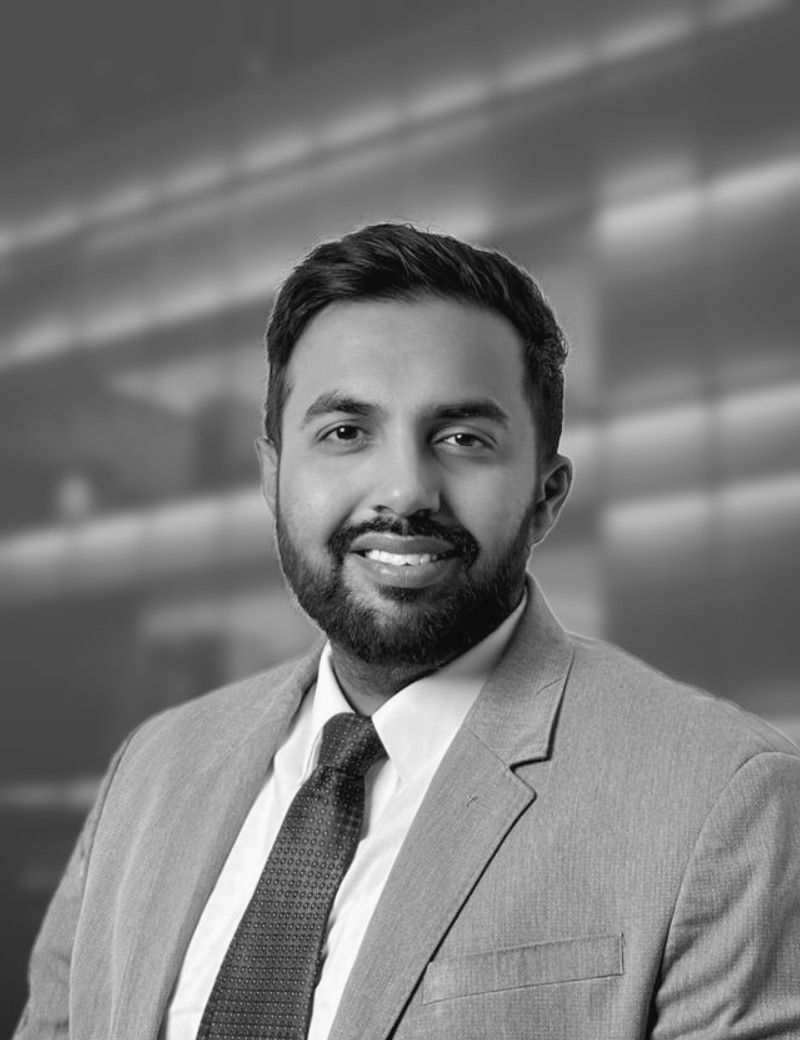
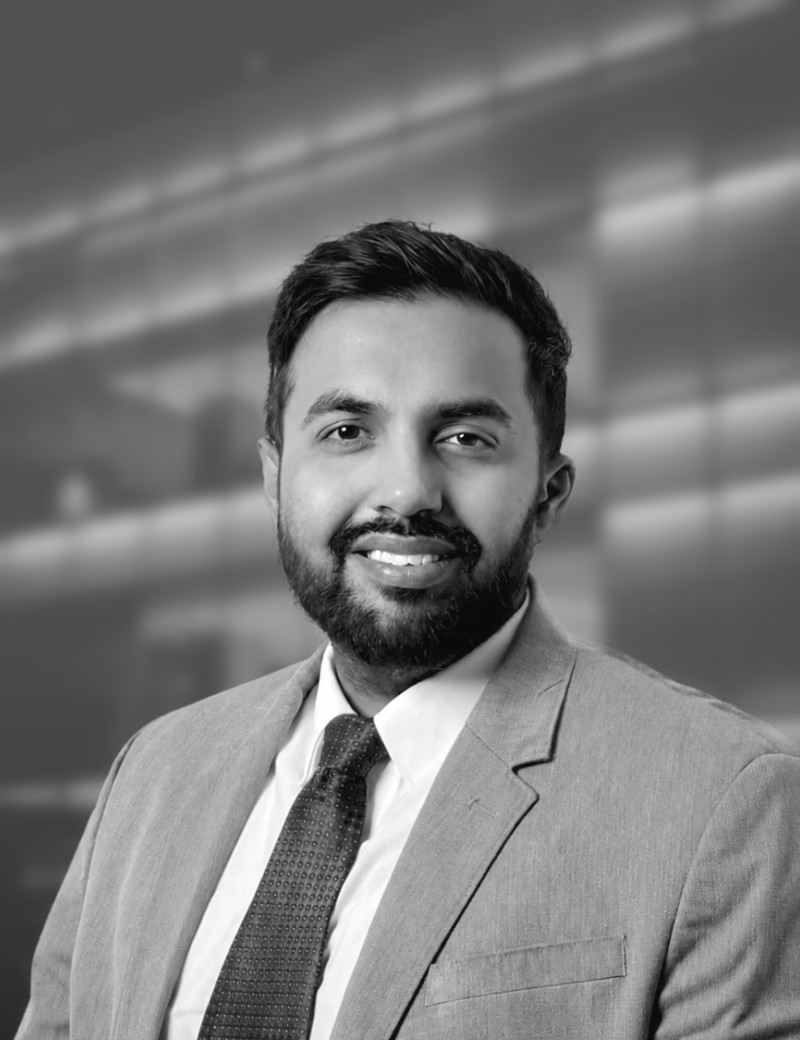
Ten new portraits, and Geeta Karnik by her right name
The client's reshoot arrives: everyone on the page but Asif, in one
studio session. Through the same pipeline as before — cut with person
segmentation, exposed toward the set's face tone, composited on the
shared backdrop — so the nine new frames and the one old one still read
as one wall.

Geetika Kamikar was never her name. She is Geeta Karnik, and her card
carries her photograph rather than the initials tile, which no card
needs any more.

Two smaller wins in the same batch. Gaurav's original is now 1500x2000
rather than 800x1040, which is the sharpest any founder card has been.
And Amit's frame is finally wide enough to crop to the set's head size:
his was one of the two stuck at 35% for want of a wider original.

Ramesh's and Geeta's titles still read "Advisor" — the client has those
coming.

diff --git a/lib/content/gamcs.ts b/lib/content/gamcs.ts
@@ -224,9 +224,9 @@ export const team = {
     { name: "Abhinav Aggarwal", title: "Co-Founder | FP&A, BI & Transformation Specialist", experience: "10+ years", location: "Delhi, India", linkedinUrl: "https://www.linkedin.com/in/abhinav-aggarwal-a29078172/", photo: "/team/abhinav-aggarwal-bw.jpg", email: "abhinav.aggarwal@gamcs.in" },
   ],
   /* Order is the client's: it is what the page prints, four to a row.
-     Ramesh has his headshot but no title yet, and Geetika has neither, so
-     "Advisor" stands in for both and her card carries an initials tile.
-     A card with no `photo` renders the tile. */
+     Ramesh and Geeta have their headshots; "Advisor" stands in for both until
+     the client sends their titles. A card with no `photo` would render an
+     initials tile instead; none does now. */
   advisory: [
     { name: "Sumit Chatterjee", title: "Shared Services Operations", experience: "30+ years", photo: "/team/sumit-chatterjee.jpg" },
     { name: "Ramesh Yadav", title: "Advisor", photo: "/team/ramesh-yadav.jpg" },
@@ -234,7 +234,7 @@ export const team = {
     { name: "Dhawal Parvatikar", title: "Strategic Finance & CFO Advisory", experience: "15+ years", location: "Dubai, UAE", photo: "/team/dhawal-parvatikar.jpg" },
     { name: "Asif Masani", title: "BI & Analytics, FP&A Automation Specialist", experience: "15+ years", location: "Mumbai, India", photo: "/team/asif-masani.jpg" },
     { name: "Sanjay Rikhy", title: "Strategic Advisor | Former CFO | ESG & Performance Transformation", experience: "25+ years", photo: "/team/sanjay-rikhy.jpg" },
-    { name: "Geetika Kamikar", title: "Advisor" },
+    { name: "Geeta Karnik", title: "Advisor", photo: "/team/geeta-karnik.jpg" },
     { name: "Saurabh Aggarwal", title: "Reporting, Due Diligence, Audit & Compliance Specialist", experience: "20+ years", photo: "/team/saurabh-aggarwal.jpg" },
   ],
   get members() {

diff --git a/scripts/portraits/build.py b/scripts/portraits/build.py
@@ -22,8 +22,8 @@ D = os.path.dirname(os.path.abspath(__file__))
 SRC = os.environ.get('PORTRAIT_SRC', '.')
 OUT = f'{D}/out'
 
-# person -> original photograph. The pre-2026 originals (Asif, the two founders)
-# are in git history, before "Put every portrait on one backdrop".
+# person -> original photograph. Asif's is the pre-2026 original, in git history
+# before "Put every portrait on one backdrop"; everyone else was reshot.
 PEOPLE = [
     ('sumit-chatterjee',  'sumit-chatterjee.jpg'),
     ('ramesh-yadav',      'ramesh-yadav.webp'),
@@ -31,11 +31,12 @@ PEOPLE = [
     ('dhawal-parvatikar', 'dhawal-parvatikar.webp'),
     ('asif-masani',       'asif-masani.jpg'),
     ('sanjay-rikhy',      'sanjay-rikhy.webp'),
+    ('geeta-karnik',      'geeta-karnik.webp'),
     ('saurabh-aggarwal',  'saurabh-aggarwal.webp'),
 ]
 FOUNDERS = [
     ('gaurav-malik-bw',     'gaurav-malik-bw.jpg'),
-    ('abhinav-aggarwal-bw', 'abhinav-aggarwal-bw.jpg'),
+    ('abhinav-aggarwal-bw', 'abhinav-aggarwal-bw.webp'),
 ]
 
 FACE_FRAC = 0.28        # the face box's share of the frame, where the photograph allows
